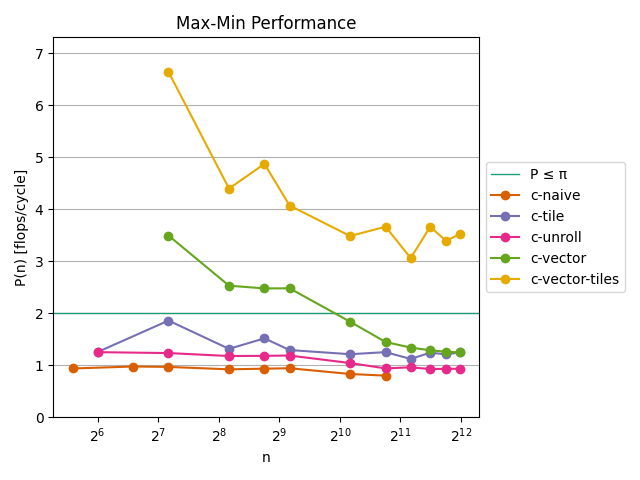
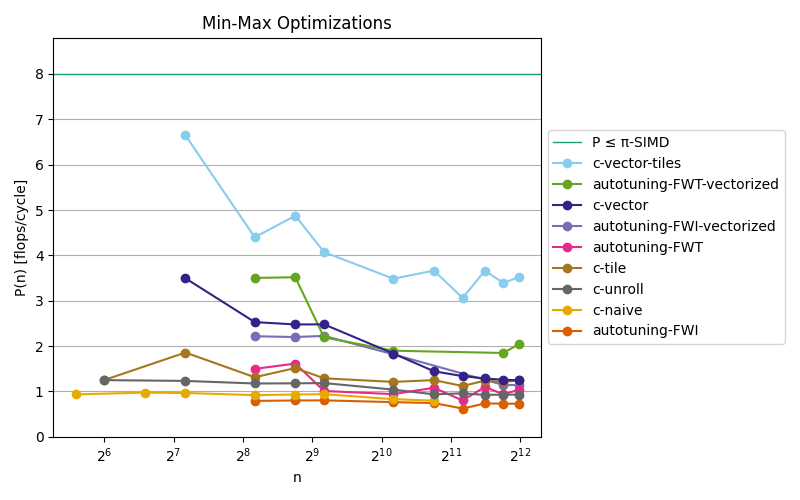
add more colors and sort lines by their first y value

diff --git a/measurements/perf-plots.py b/measurements/perf-plots.py
@@ -14,6 +14,23 @@ COLOR_LIST = [
     "#e6ab02",
     "#a6761d",
     "#666666",
+    "#332288",
+    "#88CCEE",
+    "#44AA99",
+    "#117733",
+    "#999933",
+    "#DDCC77",
+    "#CC6677",
+    "#882255",
+    "#AA4499",
+    "#f58231",
+    "#0082C8",
+    "#F58231",
+    "#911EB4",
+    "#008080",
+    "#AA6E28",
+    "#800000",
+    "#808000",
 ]
 
 LABEL_ALGORITHM = "algo"
@@ -77,7 +94,7 @@ def main(
         color=COLOR_LIST
     )  # sets colors using given cycle
 
-    mpl.rcParams["figure.figsize"] = [8,5]
+    mpl.rcParams["figure.figsize"] = [8, 5]
 
     if peak != 0.0:
         print(f"plotting non-SIMD performance limit at {peak} flops/cycle")
@@ -100,7 +117,6 @@ def main(
         )
 
     perf_max = 0.0
-
     for data_file_path in data_file_list:
 
         # generate label
@@ -156,8 +172,15 @@ def main(
     plt.xscale("log", base=2)
     plt.grid(True, which="major", axis="y")
     plt.title(title)
-    plt.legend(loc="center left", bbox_to_anchor=(1, 0.5))  # TODO: Label lines directly
+    plt.legend(loc="center left", bbox_to_anchor=(1, 0.5))
     plt.tight_layout(pad=1.1)
+
+    # reorder legend
+    handles, labels = plt.gca().get_legend_handles_labels()
+    labels, handles = zip(
+        *sorted(zip(labels, handles), key=lambda t: t[1]._y[0], reverse=True)
+    )
+    plt.legend(handles, labels, loc="center left", bbox_to_anchor=(1, 0.5))
 
     outfile = "{}/{}_perf.png".format(plots_dir, output_file)
     plt.savefig(outfile)
